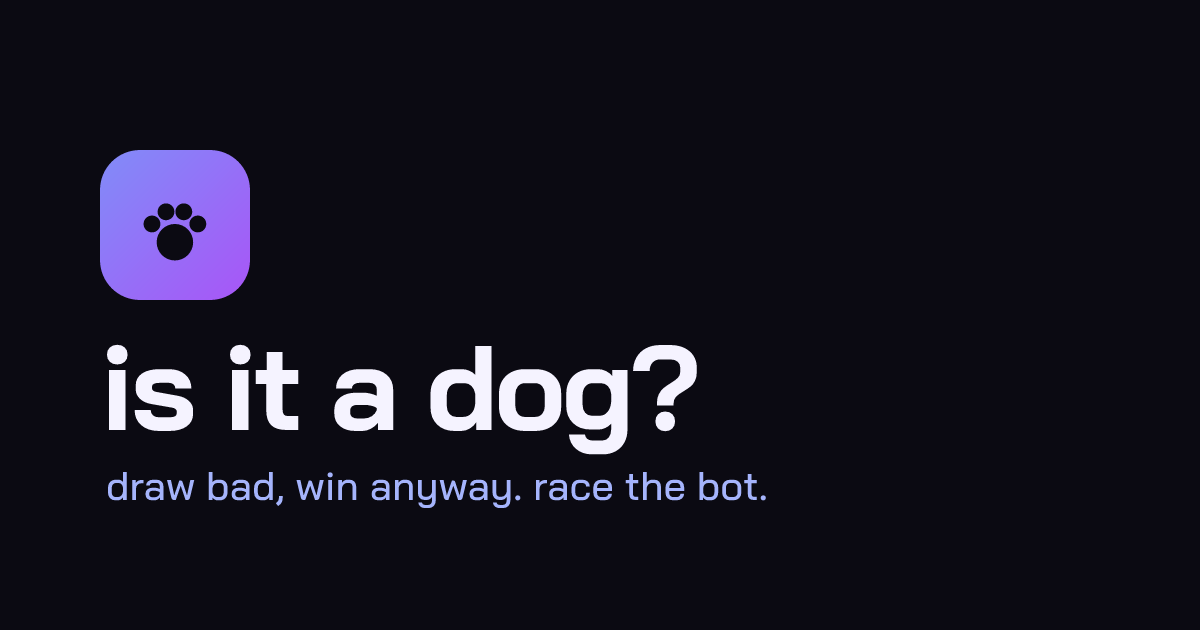
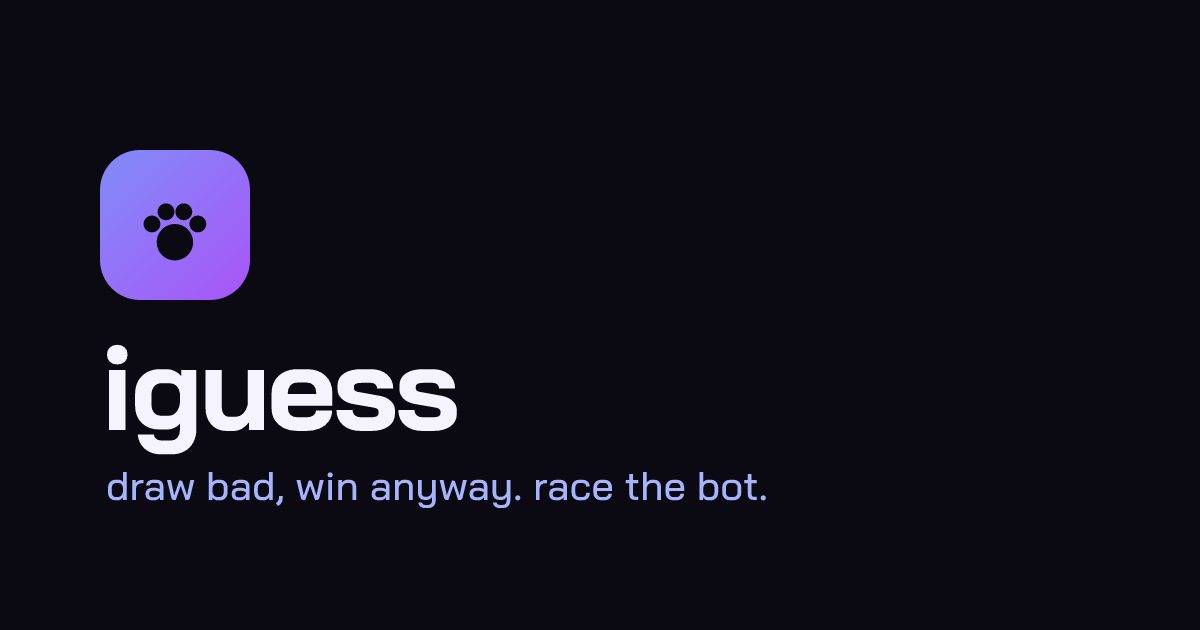
chore: update name

Changed region(s): [[0.0925, 0.5429, 0.5858, 0.7238]]

diff --git a/packages/client/index.html b/packages/client/index.html
@@ -3,7 +3,7 @@
   <head>
     <meta charset="UTF-8" />
     <meta name="viewport" content="width=device-width, initial-scale=1.0" />
-    <title>is it a dog? · drawing game</title>
+    <title>iguess · drawing game</title>
     <meta name="theme-color" content="#0b0a12" />
     <link rel="icon" type="image/svg+xml" href="/icon.svg" />
     <link rel="apple-touch-icon" sizes="180x180" href="/apple-touch-icon.png" />
@@ -11,17 +11,17 @@
     <!-- Link unfurl / social preview -->
     <meta name="description" content="probably not. draw it anyway. real-time multiplayer drawing & guessing vs an AI that thinks it ate." />
     <meta property="og:type" content="website" />
-    <meta property="og:url" content="https://is-it-a-dog.aidenjang.com/" />
-    <meta property="og:title" content="is it a dog? 🐶" />
+    <meta property="og:url" content="https://iguess.aidenjang.com/" />
+    <meta property="og:title" content="iguess 🐶" />
     <meta property="og:description" content="draw bad, win anyway. multiplayer scribble game where you race a bot. pull up." />
-    <meta property="og:image" content="https://is-it-a-dog.aidenjang.com/og.png" />
+    <meta property="og:image" content="https://iguess.aidenjang.com/og.png" />
     <meta property="og:image:type" content="image/png" />
     <meta property="og:image:width" content="1200" />
     <meta property="og:image:height" content="630" />
     <meta name="twitter:card" content="summary_large_image" />
-    <meta name="twitter:title" content="is it a dog? 🐶" />
+    <meta name="twitter:title" content="iguess 🐶" />
     <meta name="twitter:description" content="draw bad, win anyway. race the bot. pull up." />
-    <meta name="twitter:image" content="https://is-it-a-dog.aidenjang.com/og.png" />
+    <meta name="twitter:image" content="https://iguess.aidenjang.com/og.png" />
     <link rel="preconnect" href="https://fonts.googleapis.com" />
     <link rel="preconnect" href="https://fonts.gstatic.com" crossorigin />
     <link

diff --git a/packages/client/src/App.tsx b/packages/client/src/App.tsx
@@ -87,7 +87,7 @@ function saveCanvasPng(canvas: HTMLCanvasElement, room: string) {
   c.fillRect(0, 0, out.width, out.height);
   c.drawImage(canvas, 0, 0);
   const a = document.createElement("a");
-  a.download = `is-it-a-dog-${room}-${Date.now()}.png`;
+  a.download = `iguess-${room}-${Date.now()}.png`;
   a.href = out.toDataURL("image/png");
   a.click();
 }
@@ -281,7 +281,7 @@ export function App() {
           <div style={styles.brand}>
             <span style={styles.brandMark}>🐶</span>
             <div>
-              <h1 className="grad-anim" style={styles.title}>is it a dog?</h1>
+              <h1 className="grad-anim" style={styles.title}>iguess</h1>
               <p key={tagIdx} className="pop-in" style={styles.subtitle}>
                 {TAGLINES[tagIdx]}
               </p>
@@ -451,12 +451,12 @@ function Room({ name, room, mode }: { name: string; room: string; mode: string }
   // Live tab title — nudges people back to the tab when it's their turn.
   useEffect(() => {
     document.title = canDraw
-      ? "✏ YOUR TURN — is it a dog?"
+      ? "✏ YOUR TURN · iguess"
       : inGame
-      ? "🎨 playing · is it a dog?"
-      : "is it a dog? 🐶";
+      ? "🎨 playing · iguess"
+      : "iguess 🐶";
     return () => {
-      document.title = "is it a dog? 🐶";
+      document.title = "iguess 🐶";
     };
   }, [canDraw, inGame]);
 
@@ -577,7 +577,7 @@ function Room({ name, room, mode }: { name: string; room: string; mode: string }
     ].filter(Boolean);
 
     return [
-      `is it a dog? 🐶 · ${modeMeta?.label ?? mode}`,
+      `iguess 🐶 · ${modeMeta?.label ?? mode}`,
       `i came #${place || "?"}/${ranked.length} and that's on periodt`,
       "",
       ...rows,

diff --git a/packages/game-server/src/engine.test.ts b/packages/game-server/src/engine.test.ts
@@ -1,6 +1,6 @@
 import { test, beforeEach, afterEach } from "node:test";
 import assert from "node:assert/strict";
-import type { ServerMessage, PublicGameState } from "@is-it-a-dog/shared";
+import type { ServerMessage, PublicGameState } from "@iguess/shared";
 import { GameEngine, type EngineDeps } from "./engine.ts";
 import { ClassicMode, WORDS, winnerLine } from "./modes/ClassicMode.ts";
 import { isClose, normalizeGuess } from "./text.ts";

diff --git a/packages/ai-worker/src/strokeRender.ts b/packages/ai-worker/src/strokeRender.ts
@@ -1,7 +1,7 @@
 import { initWasm, Resvg } from '@resvg/resvg-wasm';
 // wrangler bundles the .wasm as a WebAssembly.Module we hand to initWasm() once.
 import resvgWasm from '@resvg/resvg-wasm/index_bg.wasm';
-import type { DrawOp } from '@is-it-a-dog/shared';
+import type { DrawOp } from '@iguess/shared';
 import { opsToSvg, WIDTH } from './strokeSvg.ts';
 
 let wasmReady: Promise<void> | null = null;

diff --git a/packages/game-server/src/worker.ts b/packages/game-server/src/worker.ts
@@ -8,7 +8,7 @@ export default {
     const url = new URL(request.url);
 
     if (url.pathname === '/health') {
-      return new Response(JSON.stringify({ status: 'ok', service: 'is-it-a-dog' }), {
+      return new Response(JSON.stringify({ status: 'ok', service: 'iguess' }), {
         headers: { 'content-type': 'application/json' },
       });
     }

diff --git a/packages/game-server/src/GameRoom.ts b/packages/game-server/src/GameRoom.ts
@@ -1,4 +1,4 @@
-import type { ClientMessage, ServerMessage, PlayerInfo, DrawOp } from '@is-it-a-dog/shared';
+import type { ClientMessage, ServerMessage, PlayerInfo, DrawOp } from '@iguess/shared';
 import { GameEngine } from './engine.ts';
 import { ClassicMode } from './modes/ClassicMode.ts';
 import { AIGuesserMode } from './modes/AIGuesserMode.ts';

diff --git a/packages/game-server/src/modes/TeamBattleMode.test.ts b/packages/game-server/src/modes/TeamBattleMode.test.ts
@@ -1,6 +1,6 @@
 import { test } from "node:test";
 import assert from "node:assert/strict";
-import type { ServerMessage } from "@is-it-a-dog/shared";
+import type { ServerMessage } from "@iguess/shared";
 import type { EngineContext, PlayerRef } from "./GameMode.ts";
 import { TeamBattleMode } from "./TeamBattleMode.ts";
 

diff --git a/packages/game-server/src/engine.ts b/packages/game-server/src/engine.ts
@@ -1,4 +1,4 @@
-import type { ServerMessage, PublicGameState, GamePhase, DrawOp } from "@is-it-a-dog/shared";
+import type { ServerMessage, PublicGameState, GamePhase, DrawOp } from "@iguess/shared";
 import type { GameMode, EngineContext, PlayerRef, TurnContext } from "./modes/GameMode.ts";
 
 const TURN_MS = 60_000;

diff --git a/packages/ai-worker/src/strokeSvg.ts b/packages/ai-worker/src/strokeSvg.ts
@@ -1,4 +1,4 @@
-import type { DrawOp, Point } from '@is-it-a-dog/shared';
+import type { DrawOp, Point } from '@iguess/shared';
 
 // Pure stroke-log → SVG (no WASM/canvas), so it runs and unit-tests anywhere. The rasterizer
 // (strokeRender.ts) imports this and turns the SVG into a PNG for the vision providers.

diff --git a/packages/ai-worker/src/strokeSvg.test.ts b/packages/ai-worker/src/strokeSvg.test.ts
@@ -1,6 +1,6 @@
 import { test } from 'node:test';
 import assert from 'node:assert/strict';
-import type { DrawOp } from '@is-it-a-dog/shared';
+import type { DrawOp } from '@iguess/shared';
 import { opsToSvg } from './strokeSvg.ts';
 
 test('renders a white background and no strokes for an empty log', () => {

diff --git a/packages/game-server/src/modes/GameMode.ts b/packages/game-server/src/modes/GameMode.ts
@@ -1,4 +1,4 @@
-import type { ServerMessage, DrawOp } from "@is-it-a-dog/shared";
+import type { ServerMessage, DrawOp } from "@iguess/shared";
 
 // A participant in a game — a human (backed by a socket) or a virtual player
 // such as the AI. The engine treats them uniformly for turn order + scoring.

diff --git a/packages/game-server/src/modes/TeamBattleMode.ts b/packages/game-server/src/modes/TeamBattleMode.ts
@@ -1,4 +1,4 @@
-import type { DrawOp } from "@is-it-a-dog/shared";
+import type { DrawOp } from "@iguess/shared";
 import type { EngineContext, PlayerRef, TurnContext } from "./GameMode.ts";
 import { ClassicMode } from "./ClassicMode.ts";
 import { startGuessLoop } from "../ai/aiGuessLoop.ts";
